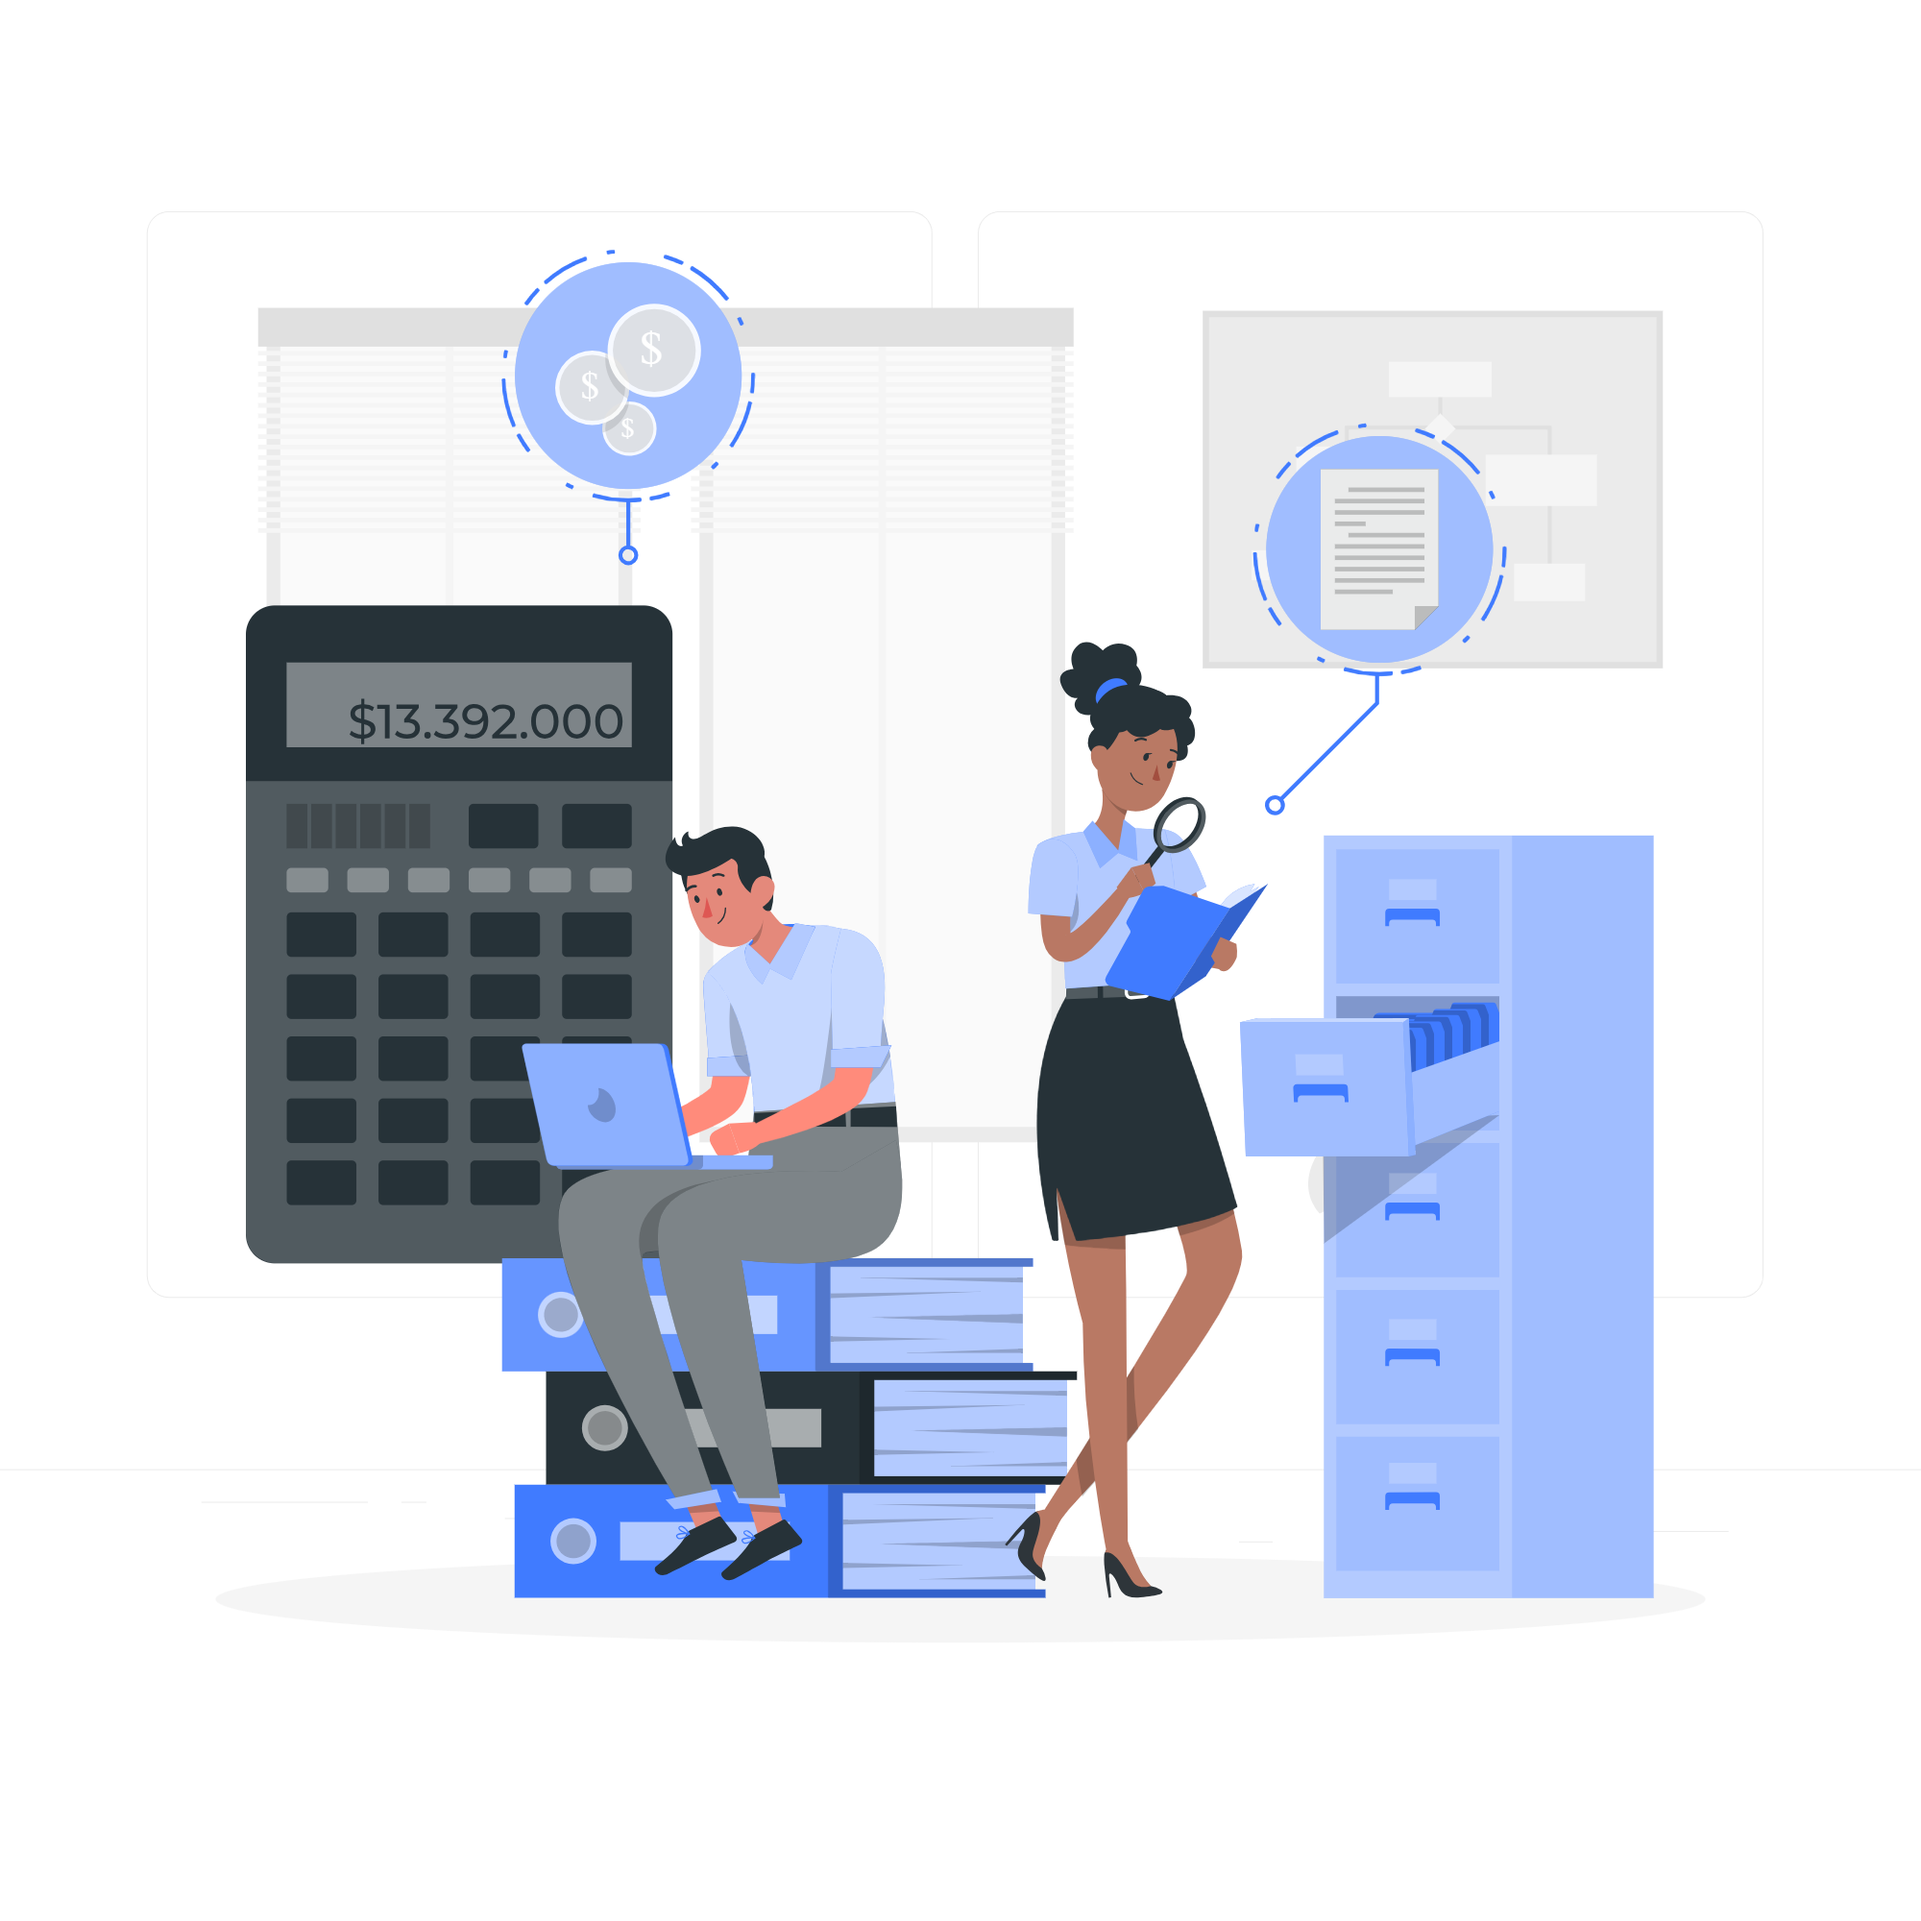
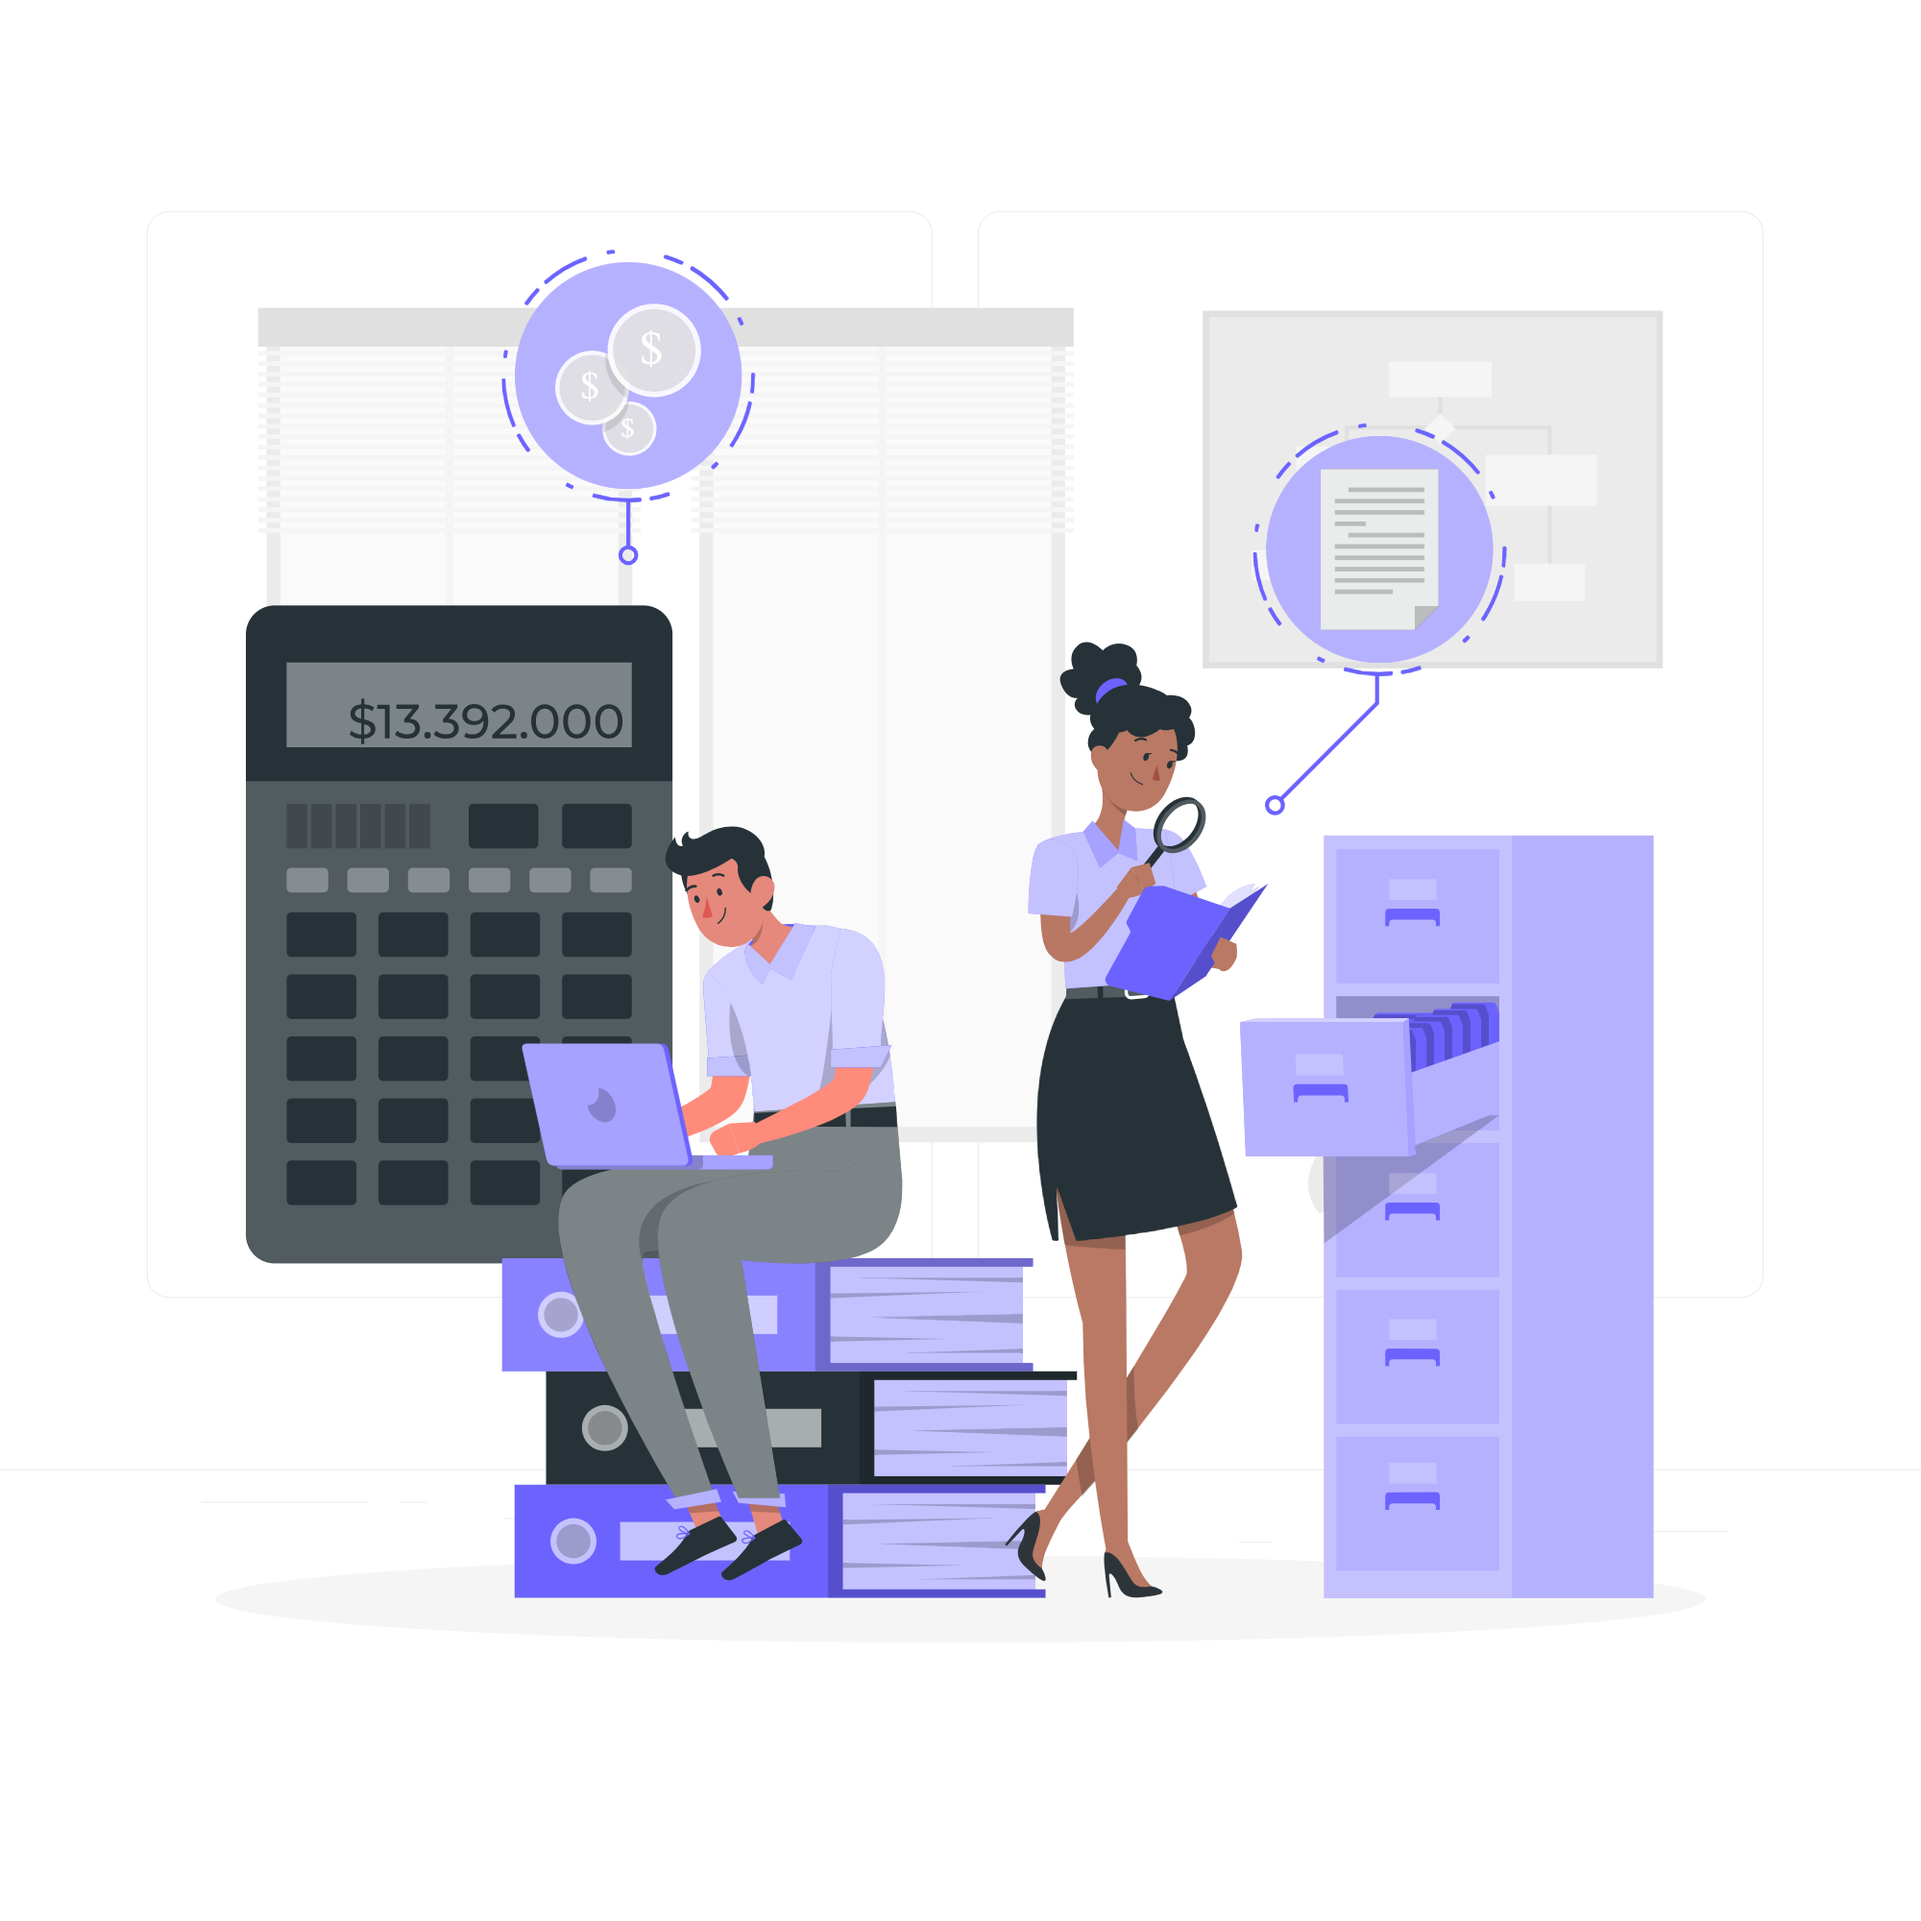
change images and alerts

diff --git a/index.html b/index.html
@@ -14,102 +14,46 @@
 
     <!-- login -->
 
-    <div id="showpage">
-        <div class="myalert position-absolute top-0 end-0 mt-5 me-4" id="hide">
-            <div class="alert alert-warning" role="alert">
 
-            </div>
+    <div class="myalert position-fixed top-0 end-0 m-3" id="hide">
+        <div class="alert alert-warning" role="alert">
+
         </div>
-
-        <h1 class="text-center my-4">Expense Management System</h1>
-
-        <main class="container d-flex justify-content-evenly align-items-center border border-secondary p-4 my-3 rounded-2">
-            <div class="row">
-
-                <div class="left bg-img-login 3 col-md-6 col-lg-6">
-                    <img src="./Images/undraw_Transfer_money_re_6o1h.png" alt="">
-                </div>
-
-                <div class="col-sm-12 col-md-6 col-lg-6 px-3">
-                    <h2 class="text-center my-3">Login Form</h2>
-                    <div class="d-flex justify-content-center">
-                        <img src="./Images/simple-wallet-with-credit-card-inside-free-vector.jpg" alt="logo" class="logo">
-                    </div>
-                    <form>
-                        <div class=" mb-3">
-                            <label for="exampleInputEmail1" class="form-label">Email address</label>
-                            <input type="email" class="form-control" id="exampleInputEmail1" aria-describedby="emailHelp">
-                        </div>
-                        <div class="mb-3">
-                            <label for="exampleInputPassword1" class="form-label">Password</label>
-                            <input type="password" class="form-control" id="exampleInputPassword1">
-                        </div>
-                        <div class="mb-3 form-check">
-                            <input type="checkbox" onclick="showpass()" class="form-check-input" id="exampleCheck1">
-                            <label class="form-check-label" for="exampleCheck1">Show Password</label>
-                        </div>
-                        <button onclick="login()" onsubmit="return false" id="btn" class="btn btn-primary mb-3 w-100">Login</button>
-                        <div class="mb-3">
-                            Don't have an account ? Click here to
-                            <a href="./signup/signup.html">Sign up</a>
-                        </div>
-                    </form>
-                </div>
-            </div>
-        </main>
     </div>
 
-    <!-- Signup -->
+    <h1 class="text-center my-4">Expense Management System</h1>
 
-    <div id="hidepage">
-        <div class="myalert position-absolute top-0 end-0 mt-3 me-3" id="hide">
-            <div class="alert alert-warning" role="alert">
+    <main class="container d-flex justify-content-evenly align-items-center border border-secondary p-4 my-3">
+        <div class="row">
 
+            <div class="left bg-img-login 3 col-md-6 col-lg-6">
+                <img src="./Images/Marketing consulting-amico.png" alt="">
+            </div>
+
+            <div class="col-sm-12 col-md-6 col-lg-6 d-flex flex-column justify-content-center">
+                <h2 class="text-center my-3">Login Form</h2>
+                <form class="container">
+                    <div class=" mb-3">
+                        <label for="exampleInputEmail1" class="form-label">Email address</label>
+                        <input type="email" class="form-control" id="exampleInputEmail1" aria-describedby="emailHelp">
+                    </div>
+                    <div class="mb-3">
+                        <label for="exampleInputPassword1" class="form-label">Password</label>
+                        <input type="password" class="form-control" id="exampleInputPassword1">
+                    </div>
+                    <div class="mb-3 form-check">
+                        <input type="checkbox" onclick="showpass()" class="form-check-input" id="exampleCheck1">
+                        <label class="form-check-label" for="exampleCheck1">Show Password</label>
+                    </div>
+                    <button onclick="login()" onsubmit="return false" id="btn" class="btn btn-primary mb-3 w-100">Login</button>
+                    <div class="mb-3">
+                        Don't have an account ? Click here to
+                        <a href="./signup/signup.html">Sign up</a>
+                    </div>
+                </form>
             </div>
         </div>
-
-        <h1 class="text-center my-4">Expense Management System</h1>
-
-
-
-        <main class="container d-flex justify-content-evenly align-items-center border border-secondary p-4 my-3 rounded-2">
-            <div class="row">
-
-                <div class="left bg-img-signup col-md-6 col-lg-6">
-                    <img src="../Images/Audit-rafiki.png" alt="">
-                </div>
-                <div class="col-sm-12 col-md-6 col-lg-6 px-4">
-                    <h2 class="text-center">Signup Form</h2>
-                    <div class="d-flex justify-content-center">
-                        <img src="../Images/simple-wallet-with-credit-card-inside-free-vector.jpg" alt="logo" class="logo">
-                    </div>
-                    <form>
-                        <div class=" mb-3">
-                            <label for="exampleInputUsername1" class="form-label">Username</label>
-                            <input type="Username" class="form-control" id="exampleInputUsername1" aria-describedby="UsernameHelp">
-                        </div>
-                        <div class=" mb-3">
-                            <label for="exampleInputEmail1" class="form-label">Email address</label>
-                            <input type="email" class="form-control" id="exampleInputEmail1" aria-describedby="emailHelp">
-                        </div>
-                        <div class="mb-3">
-                            <label for="exampleInputPassword1" class="form-label">Password</label>
-                            <input type="password" class="form-control" id="exampleInputPassword1">
-                        </div>
-                        <div class="mb-3 form-check">
-                            <input type="checkbox" onclick="showpass()" class="form-check-input" id="exampleCheck1">
-                            <label class="form-check-label" for="exampleCheck1">Show Password</label>
-                        </div>
-                        <button onclick="signup()" onsubmit="return false" id="btn" class="btn btn-primary mb-3 w-100">Sign up</button>
-                        <div class="mb-3">
-                            Already have an account ? Click here to
-                            <a href="../index.html">Login</a>
-                        </div>
-                    </form>
-                </div>
-            </div>
-        </main>
-    </div>
+    </main>
 
 
 

diff --git a/signup/signup.html b/signup/signup.html
@@ -12,7 +12,7 @@
 </head>
 
 <body>
-    <div class="myalert position-absolute top-0 end-0 mt-3 me-3" id="hide">
+    <div class="myalert position-fixed top-0 end-0 m-3" id="hide">
         <div class="alert alert-warning" role="alert">
 
         </div>
@@ -20,21 +20,15 @@
 
     <h1 class="text-center my-4">Expense Management System</h1>
 
-
-
     <main class="container d-flex justify-content-evenly align-items-center border border-secondary p-4 my-3 rounded-2">
         <div class="row">
-
             <div class="left bg-img-signup col-md-6 col-lg-6">
                 <img src="../Images/Audit-rafiki.png" alt="">
             </div>
-            <div class="col-sm-12 col-md-6 col-lg-6 px-4">
+            <div class="col-sm-12 col-md-6 col-lg-6 px-4 d-flex flex-column justify-content-center">
                 <h2 class="text-center">Signup Form</h2>
-                <div class="d-flex justify-content-center">
-                    <img src="../Images/simple-wallet-with-credit-card-inside-free-vector.jpg" alt="logo" class="logo">
-                </div>
-                <form>
-                    <div class=" mb-3">
+                <form class="container">
+                    <div class="mb-3">
                         <label for="exampleInputUsername1" class="form-label">Username</label>
                         <input type="Username" class="form-control" id="exampleInputUsername1" aria-describedby="UsernameHelp">
                     </div>

diff --git a/signup/style.css b/signup/style.css
@@ -1,10 +1,9 @@
 body {
-    background-color: #e4e4e4 !important;
+    background-color: #eeeeee !important;
 }
 
 .myalert {
     display: none;
-    transition: all ease-in 3s;
 }
 
 .left {
@@ -13,23 +12,9 @@ body {
     justify-content: center;
 }
 
-.bg-img-login {
-    background: url(../Images/bg13.png);
-    background-position: center;
-    background-size: 100%;
-    background-repeat: no-repeat;
-}
-
-.bg-img-signup {
-    background: url(../Images/bg2.png);
-    background-position: center;
-    background-size: 100%;
-    background-repeat: no-repeat;
-}
 
 .left img {
     width: 100%;
-    mix-blend-mode: multiply;
 }
 
 
@@ -38,20 +23,12 @@ main {
     justify-content: center;
     flex-direction: column;
     overflow: hidden;
-    background-color: #eeeeee;
+    background-color: #ffffff;
+    border-radius: 10px;
     box-shadow: rgba(100, 100, 111, 0.2) 0px 7px 29px 0px;
 }
 
-.logo {
-    width: 110px;
-    mix-blend-mode: multiply;
-    text-align: center;
-}
 
-#showpage {
-    display: block;
-}
-
-#hidepage {
-    display: none !important;
+.btn-primary {
+    background-color: #6c63ff !important;
 }

diff --git a/signup/signup.js b/signup/signup.js
@@ -49,6 +49,9 @@ function signup() {
                 email,
                 password,
             });
+            alertbox.classList.remove("myalert");
+            alertbox.firstElementChild.className = "alert alert-success"
+            alertbox.firstElementChild.innerHTML = "Account created successfully";
             localStorage.setItem("users", JSON.stringify(users));
             clearInput();
         }
@@ -99,6 +102,7 @@ function login() {
         if (checkuser) {
             if (checkuser.password === password) {
                 alertbox.classList.remove("myalert");
+                alertbox.firstElementChild.className = "alert alert-success"
                 alertbox.firstElementChild.innerHTML = "Login successful";
             } else {
                 alertbox.classList.remove("myalert");
